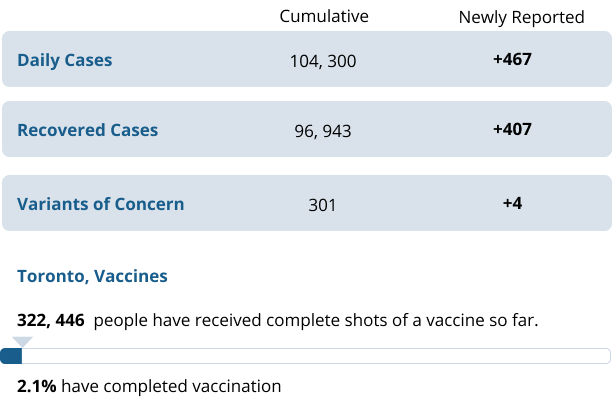
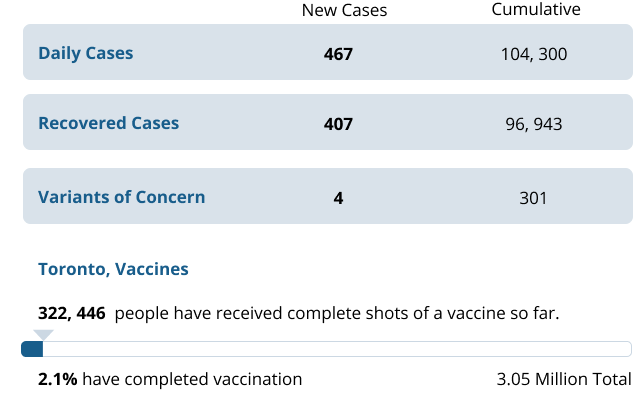
trying to get nav and cards to work

diff --git a/faqs.html b/faqs.html
@@ -36,7 +36,7 @@
     <link href="css/faqs.css" rel="stylesheet">
     <!-- Font Link: Open Sans-->
     <link rel="stylesheet" type="text/css" href="//fonts.googleapis.com/css?family=Open+Sans" />
-    <title>Toronto COVID-19 Hub</title>
+    <title>Frequently Asked Questions: Toronto COVID-19 Hub</title>
   </head>
   <body>
   <!-- 40px padding-top for Main in CSS -->
@@ -44,14 +44,14 @@
     <header class="logoUtilityBarContainer">
       <!-- Logo & Utility Bar-->
       <!-- Logo --><div><img src="images/logo.png" alt="Toronto Covid Hub" width="100%" height="auto"></div>
-      <!-- Container for Utility Nav & Search Bar--><div class="utilityNavSection"><a href="#" class="utilityNav">AA+</a><a href="#" class="utilityNav">FAQs</a><a href="#" class="utilityNav">Language</a>
+      <!-- Container for Utility Nav & Search Bar <div class="utilityNavSection"><a href="#" class="utilityNav">AA+</a><a href="#" class="utilityNav">FAQs</a><a href="#" class="utilityNav">Language</a> -->
         <div class="logoUtilityBarContainer">
           <input type="text" class="input" placeholder="Search"></div><!-- <div><button type="submit"><img src="images/magnifyingGlass.png"></button></div> -->
       </div>
     </header>
       <!-- Row: Primary Navigation Bar-->
-      <nav class="primaryNav"><div class="primaryNavOn">Home</div><div>News</div><div>Statistics</div><div>Business Support</div><div>Help Initiatives</div><div>Protection</div><div>Testing</div><div>Vaccines</div>
-        <!-- <ul>
+      <!-- place holdernav <nav class="primaryNav"><div class="primaryNavOn">Home</div><div>News</div><div>Statistics</div><div>Business Support</div><div>Help Initiatives</div><div>Protection</div><div>Testing</div><div>Vaccines</div>  -->
+        <ul>
           <li><a href="#home.html" style="color:#185D8B; font-weight: 900; font-family: Lato,sans-serif;">Home</a></li>
           <li class="dropdown">
             <a href="javascript:void(0)" class="dropbtn">News</a>
@@ -117,7 +117,7 @@
               <a href="#">Know Your Vaccines</a>
             </div>
           </li>
-        </ul> -->
+        </ul>
       </nav>
       <!-- Row: Welcome Banner Bar-->
     <section class="bannerBarContainer">
@@ -128,21 +128,24 @@
       <div class="breadcrumbContainer">
         <div><a href="index.html" class="breadcrumbs">Home</a>&nbsp;&#62;&nbsp; Frequently Asked Questions</div><strong></strong></div>
         <!-- Intro Text -->
-      <!-- <div class="introContainer"><strong>In order to help address the needs and concerns of Torontonians, we’ve answered a number of frequently asked questions below.</strong></div> 
-        <!-- spacerXXX <div class="mainSpacer"></div> -->
+      <div class="introContainer"><strong>In order to help address the needs and concerns of Torontonians, we’ve answered a number of <a href="#faqs">frequently asked questions below.</a></strong></div> 
+        <!-- spacer --> <div class="mainSpacer"></div>
           <!-- Download COVID Alert App -->
     <div class="body-alertContainer">
-      <div><strong>NOTE:</strong> If your question is not answered below, we recommend contacting the <strong>Toronto Public Health Hotline</strong> at <strong>416-338-7600</strong>, between <strong>8:30am to 8pm</strong>. If you are experiencing any symptoms, please contact <strong>Telehealth Ontario</strong> at <strong>1-866-797-0000</strong>, or complete the <a href=""></a>Covid-19 Self-Assessment</a>.
-      <!-- <br><br>For general questions about the City of Toronto, municipal facilities, and city services, please contact <strong>311 Toronto</strong> at <strong>311</strong> (outside city limits: 416-392-2489).--></div> 
+      <div><strong>NOTE:</strong> If your question is not answered below, we recommend contacting the <strong>Toronto Public Health Hotline</strong> at <strong>416-338-7600</strong>, between <strong>8:30am to 8pm</strong>. If you are experiencing any symptoms, please contact <strong>Telehealth Ontario</strong> at <strong>1-866-797-0000</strong>, or complete the <a href="#faqs"></a>Covid-19 Self-Assessment</a>.
+      <!-- <br><br>For general questions about the City of Toronto, municipal facilities, and city services, please contact <strong>311 Toronto</strong> at <strong>311</strong> (outside city limits: 416-392-2489).--></div>  
     </div>
       <!-- spacer --><div class="mainSpacer"></div>
       <div><!-- Search Header --><h2>What Information Are You Searching For?</h2></div>
       <!-- spacer --><div class="mainSpacer"></div>
       <div><!-- Search Bar --><form>
         <input class="Faq" type="text" name="search" placeholder="Vaccination Rollout">
-      </form></div>
+      </form><br>
+      <p style="text-align: center;">You may also browse the topics below to find what you’re looking for.</p></div>
       <!-- spacer --><div class="mainSpacer"></div>
     <!-- Accordians.  Bootstrap. -->
+      <div  id="faqs"><!-- Search Header --><h2>Frequently Asked Questions</h2></div>
+      <!-- spacer --><div class="mainSpacer"></div>
     <div class="container">
         <div id="accordion">
             <div class="card">
@@ -399,6 +402,15 @@
             </div>
             <!-- END 11 Nested Layer Section -->
         </div>
+    </div>
+    <!-- spacer --><div class="mainSpacer"></div>
+    <div class="faqsCard">
+          <p class="faqsCardText">City of Toronto<br>COVID-19 Page</p>
+        </div>
+      <!-- 
+      <div></div>
+      <div></div>
+      <div></div> -->
     </div>
     <!-- spacer --><div class="mainSpacer"></div>
 <!-- Start Footer Area -->

diff --git a/index.html b/index.html
@@ -128,7 +128,14 @@
     <main>
       <!-- spacer --><div class="mainSpacer"></div>
       <!-- COVID-19 Stats -->
-    <div class="statsContainer"><div class="statsContainersHeader"><H1>Daily Status of COVID-19 Cases in Toronto</H1></div>
+      <div class="statsContainer"><div class="statsContainersHeader"><H1>Daily Status of COVID-19 Cases in Toronto</H1></div>
+      <div class="containerSpacer"></div>
+      <div class="body-statsContainer">
+        <img src="images/TorontoDailyStats.png" alt="Daily COVID-19 Stats for Toronto"></div>
+      </div>
+    </div>
+      <!-- Version 2 with colourful Toronto Graph -->
+    <!-- <div class="statsContainer"><div class="statsContainersHeader"><H1>Daily Status of COVID-19 Cases in Toronto</H1></div>
       <div class="containerSpacer"></div>
       <div class="body-statsContainer">
         <div class="statsColumn1">
@@ -137,7 +144,7 @@
           <br>Data Source: Ontario Ministry of Health, Public Health Case and Contact Management Solution and Integrated Public Health Information System</div>
         <div class="statsColumn2"><img src="images/Stats.png" alt="COVID-19 Stats for Toronto"></div>
       </div>
-    </div>
+    </div> -->
 
       <!-- spacer --><div class="mainSpacer"></div>
       <!-- How Can We Help You? -->
@@ -218,7 +225,7 @@
         <div class="body-briefingContainer">
           <div><img src="images/Video_WithOverlay.png" alt="Toronto COVID-19 Briefing"></div>
           <div><!-- Briefing Card -->
-            <div>
+      
               <!-- Briefing Card-->
               <div class="card-header card-header-briefing"><h3>Highlights</h3></div>
               <ul class="list-group list-group-flush">
@@ -228,7 +235,7 @@
                 <li class="list-group-item briefingTextBox">Not Supporting Reopening Such as Red Zone</li>
               </ul>
             </div>
-          </div>
+      
         </div>
         </div>
       <!-- spacer --><div class="mainSpacer"></div>

diff --git a/css/faqs.css b/css/faqs.css
@@ -82,3 +82,25 @@ input.Faq[type=text] {
   /* input.Faq[type=text]:focus {
     width: 100%;
   } */
+
+  .faqsCard {
+      background-color: var(--mainLogoBlue);
+      /* background-color: coral; test colour */
+      display: flex;
+      justify-content: center;
+      align-items: center;
+      border-radius: 2rem;
+      border: none:
+      color:var(--mainBackground);
+      font-size: 1.063rem; /* 17px */
+      font-weight: 600;
+      width: 12rem;
+      height: 8rem;
+      text-align: center;
+  }
+
+  .faqsCardText {
+    display: flex;
+    justify-content: center;
+    color:var(--mainBackground);
+  } 

diff --git a/css/index.css b/css/index.css
@@ -593,6 +593,7 @@ main {
     flex-direction: column;
     height: 100%;
     width: 100%;
+    /* border: 1px solid #cc0000; */
   }
   
   .briefingContainersHeader {
@@ -606,6 +607,7 @@ main {
     justify-content: space-between;
     width: 100%;
     flex: 1;
+    /* border: 1px solid blue; */
     /* background-color: aquamarine; test colour */
   }
 
